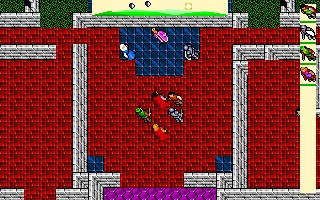
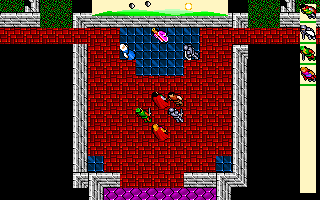
game: sight past the original's view only in lines from the eye, so rooms behind walls stay black

diff --git a/internal/game/view.go b/internal/game/view.go
@@ -95,8 +95,10 @@ type view struct {
 	// tile of each slot is objChainTile (D_D5DC)
 	objChain     [objChainSlots]chainSlot
 	objChainTile [objChainSlots]int
-	areaFlags    [areaSize * areaSize]byte
-	areaLight    [areaSize * areaSize]byte
+	// straight marks the area places sight reaches in a line from the eye (spreadSight)
+	straight  [areaSize * areaSize]bool
+	areaFlags [areaSize * areaSize]byte
+	areaLight [areaSize * areaSize]byte
 	// the queue of places whose light is computed (D_BBCC, D_BCCC, visited_w, visited_r)
 	queueX, queueY [npcCount]byte
 	queueIn        byte
@@ -220,6 +222,7 @@ func (g *Game) computeLight(x, y, dist, mode int) {
 		if !g.isVisible(at, qx, qy) {
 			continue
 		}
+		from, fromX, fromY := at, qx-x, qy-y
 		for dir := range len(aroundX) {
 			qx += aroundX[dir]
 			qy += aroundY[dir]
@@ -228,15 +231,16 @@ func (g *Game) computeLight(x, y, dist, mode int) {
 			if at < 0 || at >= len(g.areaFlags) {
 				continue
 			}
+			if mode == lightView {
+				if g.ViewX-1 <= qx && qx <= g.ViewX+viewTilesX && g.ViewY-1 <= qy && qy <= g.ViewY+viewTilesY {
+					g.spreadSight(from, fromX, fromY, qx, qy, qx-x, qy-y)
+				}
+				continue
+			}
 			if g.areaFlags[at]&areaQueued != 0 {
 				continue
 			}
 			switch {
-			case mode == lightView:
-				if g.ViewX-1 > qx || g.ViewX+viewTilesX < qx || g.ViewY-1 > qy || g.ViewY+viewTilesY < qy {
-					continue
-				}
-				g.queue(qx, qy)
 			case mode == lightPeer:
 				g.queue(qx, qy)
 			case abs(qx-x) < len(lightFalloff) && abs(qy-y) < len(lightFalloff) &&
@@ -245,6 +249,27 @@ func (g *Game) computeLight(x, y, dist, mode int) {
 			}
 		}
 	}
+}
+
+// spreadSight queues area place (qx, qy) for sight spreading to it from area place from;
+// (fromX, fromY) and (toX, toY) are the two places relative to the eye. Within the
+// original's view and the ring around it, sight spreads as the original's did. Beyond, the
+// port lets it go on only along "straight" places, which farther from the eye on both axes
+// than the place before, as a line from the eye is, so it does not come round walls (or
+// along the original's ring behind them) into rooms one cannot see.
+func (g *Game) spreadSight(from, fromX, fromY, qx, qy, toX, toY int) {
+	const core = classicViewCenter
+	to := qy*areaSize + qx
+	far := max(abs(toX), abs(toY))
+	straight := far <= core || g.straight[from] && abs(toX) >= abs(fromX) && abs(toY) >= abs(fromY)
+	if !straight && max(far, abs(fromX), abs(fromY)) > core+1 {
+		return
+	}
+	if g.areaFlags[to]&areaQueued != 0 && (!straight || g.straight[to]) {
+		return
+	}
+	g.straight[to] = g.straight[to] || straight
+	g.queue(qx, qy) // again when it turns out straight: it spreads farther
 }
 
 // wallPatches pick the piece of wall shown for the sides of it one sees (D_0644).
@@ -282,6 +307,7 @@ func (g *Game) computeView() {
 		for x := first; x < last; x++ {
 			g.areaFlags[y*areaSize+x] = 0
 			g.areaLight[y*areaSize+x] = 0
+			g.straight[y*areaSize+x] = false
 		}
 	}
 	cornerX := (int(g.MapX) - areaMargin) &^ (chunkTiles - 1)
@@ -355,7 +381,10 @@ func (g *Game) computeView() {
 			at := (vy+g.ViewY)*areaSize + vx + g.ViewX
 			var tile int
 			switch {
-			case g.areaFlags[at]&areaVisible == 0:
+			case g.areaFlags[at]&areaVisible == 0,
+				// the port: the original's ring is seen round walls, but only for joining
+				// walls; past its view one sees only what is in line (spreadSight)
+				max(abs(vx-viewCenterX), abs(vy-viewCenterY)) > classicViewCenter && !g.straight[at]:
 				tile = tileHidden
 			case g.areaLight[at] == 0:
 				tile = tileDarkness

diff --git a/internal/game/talk_test.go b/internal/game/talk_test.go
@@ -2,7 +2,6 @@ package game
 
 import (
 	"encoding/json"
-	"fmt"
 	"image"
 	"image/color"
 	"image/png"
@@ -213,9 +212,7 @@ func writePNG(t *testing.T, g *Game, name string) {
 
 // compareClassicView checks that the middle 11x11 tiles of the view are drawn as the
 // original drew its whole view: testdata/classic_view.bin is the main branch's back buffer
-// (before the frame went over it) when this test's game first drew it. Its ring of tiles
-// is left out: there the original's sight stopped at its edge, so walls missed the sides
-// seen beyond it (compareClassicTiles checks those tiles from cameras that see around them).
+// (before the frame went over it) when this test's game first drew it.
 func compareClassicView(t *testing.T, g *Game) {
 	want, err := os.ReadFile(filepath.Join("testdata", "classic_view.bin"))
 	if err != nil {
@@ -227,8 +224,8 @@ func compareClassicView(t *testing.T, g *Game) {
 		offsetY     = (viewCenterY - classicViewCenter) * tileSize
 	)
 	bad := 0
-	for y := tileSize; y < classicSize-tileSize; y++ {
-		for x := tileSize; x < classicSize-tileSize; x++ {
+	for y := range classicSize {
+		for x := range classicSize {
 			if g.gr.BackBuffer[(y+offsetY)*vga.BackBufferWidth+x+offsetX] != want[y*classicSize+x] {
 				bad++
 			}
@@ -239,40 +236,24 @@ func compareClassicView(t *testing.T, g *Game) {
 	}
 }
 
-// compareClassicTiles checks the tiles all over the view, walls joined to the sides one
-// sees included, against the original's 11x11 view with the camera moved so that each
-// tile is well inside it: testdata/classic_tiles.json holds the main branch's views for
-// cameras moved by "dx,dy" from this test's place. Tiles hidden from either camera are
-// skipped: what one sees changes with where one looks from.
+// compareClassicTiles checks the middle 11x11 tiles of the view, the hidden ones and the
+// walls cut to the sides one sees included, against the original's view from the same
+// place: testdata/classic_tiles.json is the main branch's.
 func compareClassicTiles(t *testing.T, g *Game) {
 	raw, err := os.ReadFile(filepath.Join("testdata", "classic_tiles.json"))
 	if err != nil {
 		t.Fatal(err)
 	}
-	var views map[string][classicViewTiles][classicViewTiles]int
-	if err := json.Unmarshal(raw, &views); err != nil {
+	var classic [classicViewTiles][classicViewTiles]int
+	if err := json.Unmarshal(raw, &classic); err != nil {
 		t.Fatal(err)
 	}
-	const inside = classicViewCenter - 1 // the ring of the 11x11 view is left out
-	compared := 0
-	for key, classic := range views {
-		var dx, dy int
-		fmt.Sscanf(key, "%d,%d", &dx, &dy)
-		for y := -inside; y <= inside; y++ {
-			for x := -inside; x <= inside; x++ {
-				vx, vy := viewCenterX+dx+x, viewCenterY+dy+y
-				want, got := classic[classicViewCenter+y][classicViewCenter+x], g.tileView[vy][vx]
-				if want == tileHidden || got == tileHidden {
-					continue
-				}
-				compared++
-				if want != got {
-					t.Errorf("tile (%d,%d) of the view is %d, the original's view moved by %s shows %d", vx, vy, got, key, want)
-				}
+	for y := range classicViewTiles {
+		for x := range classicViewTiles {
+			vx, vy := viewCenterX-classicViewCenter+x, viewCenterY-classicViewCenter+y
+			if want, got := classic[y][x], g.tileView[vy][vx]; want != got {
+				t.Errorf("tile (%d,%d) of the view is %d, the original shows %d", vx, vy, got, want)
 			}
 		}
-	}
-	if compared < classicViewTiles*classicViewTiles {
-		t.Error("no tile compared")
 	}
 }
